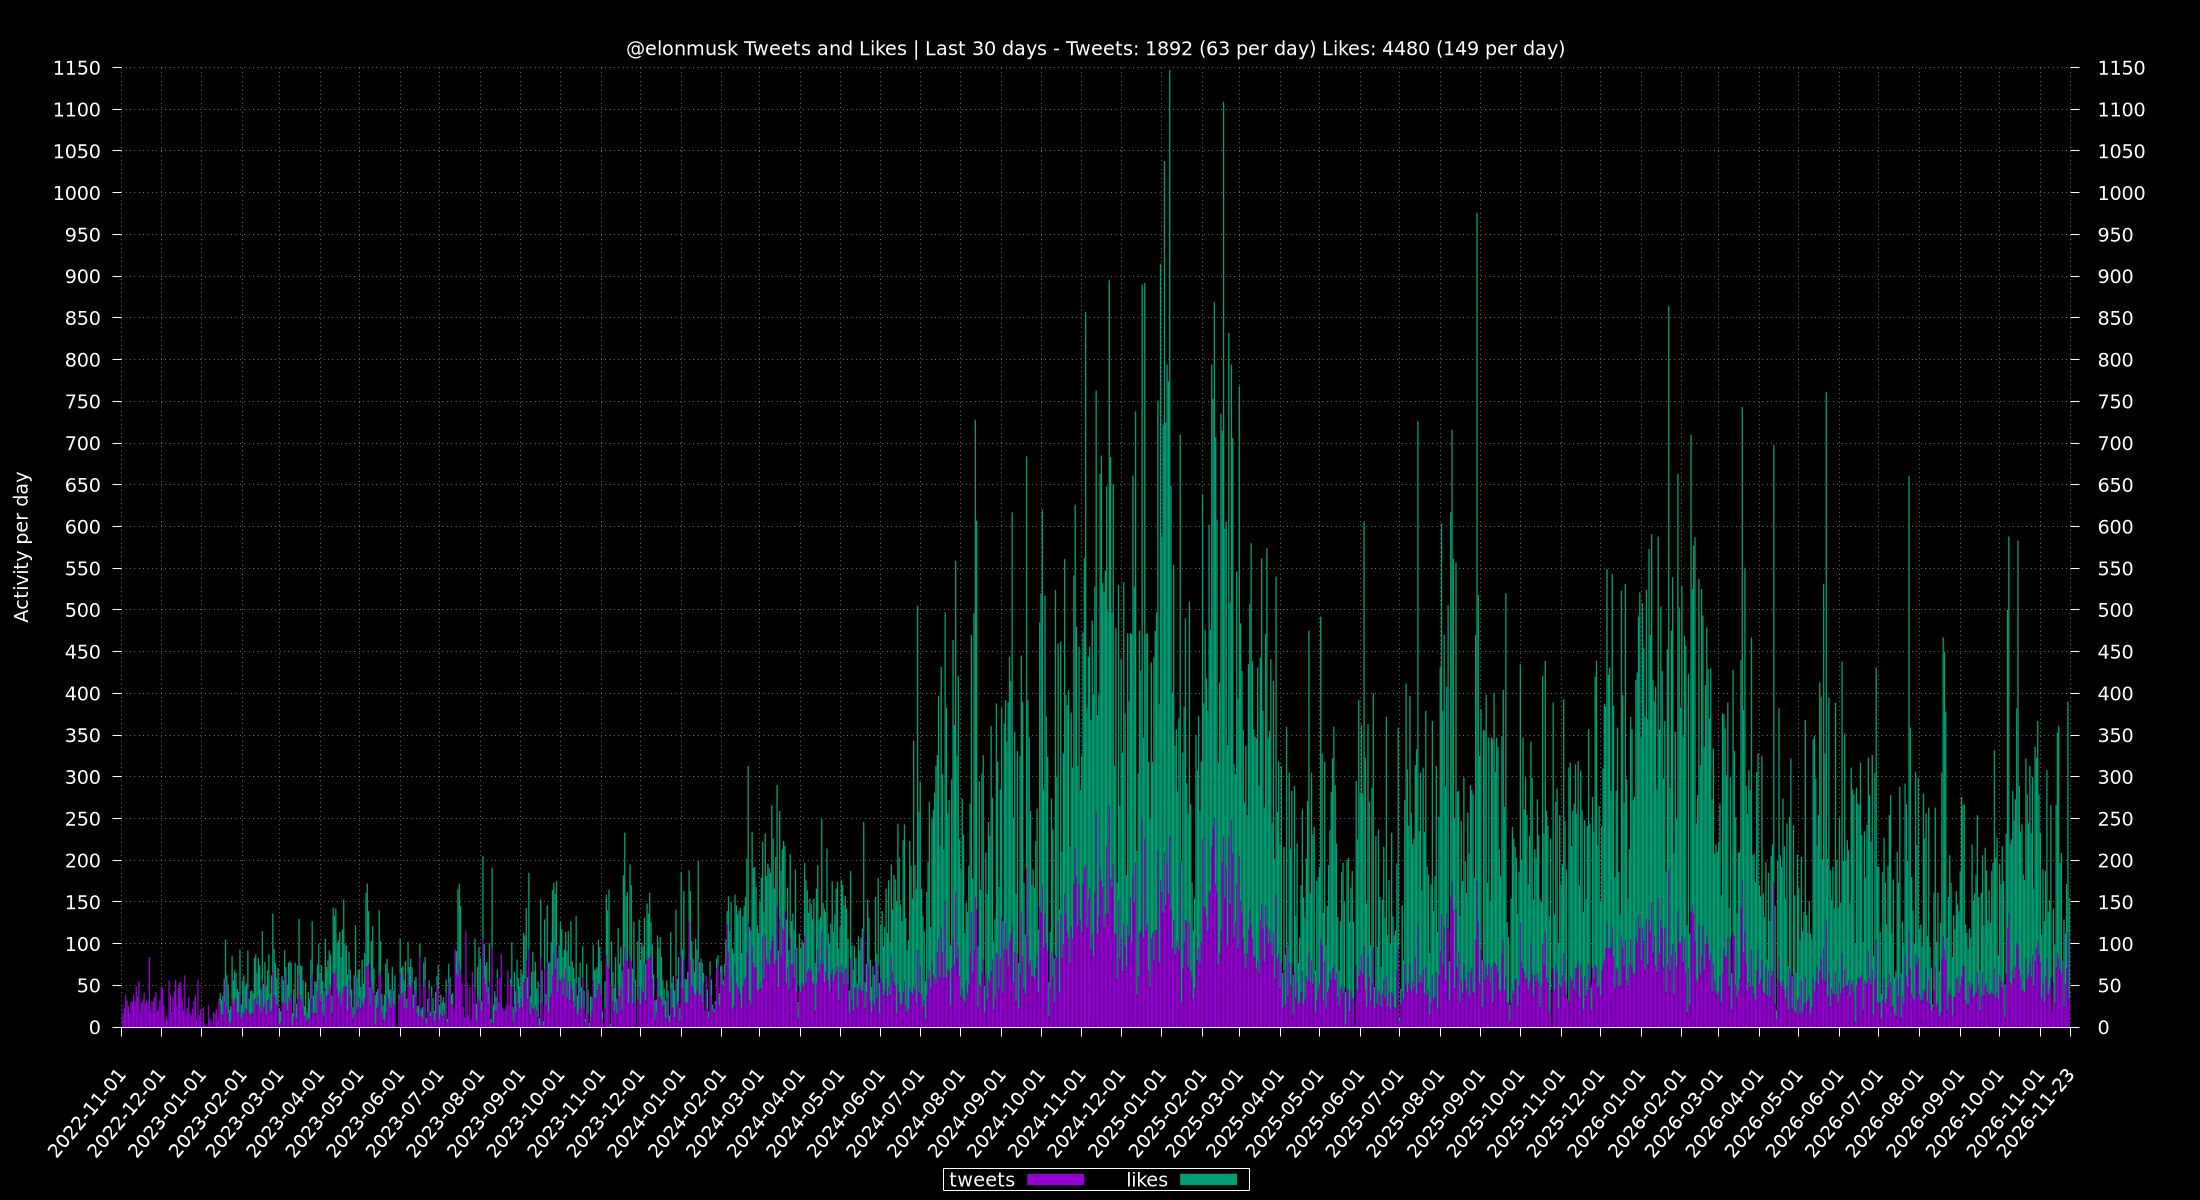
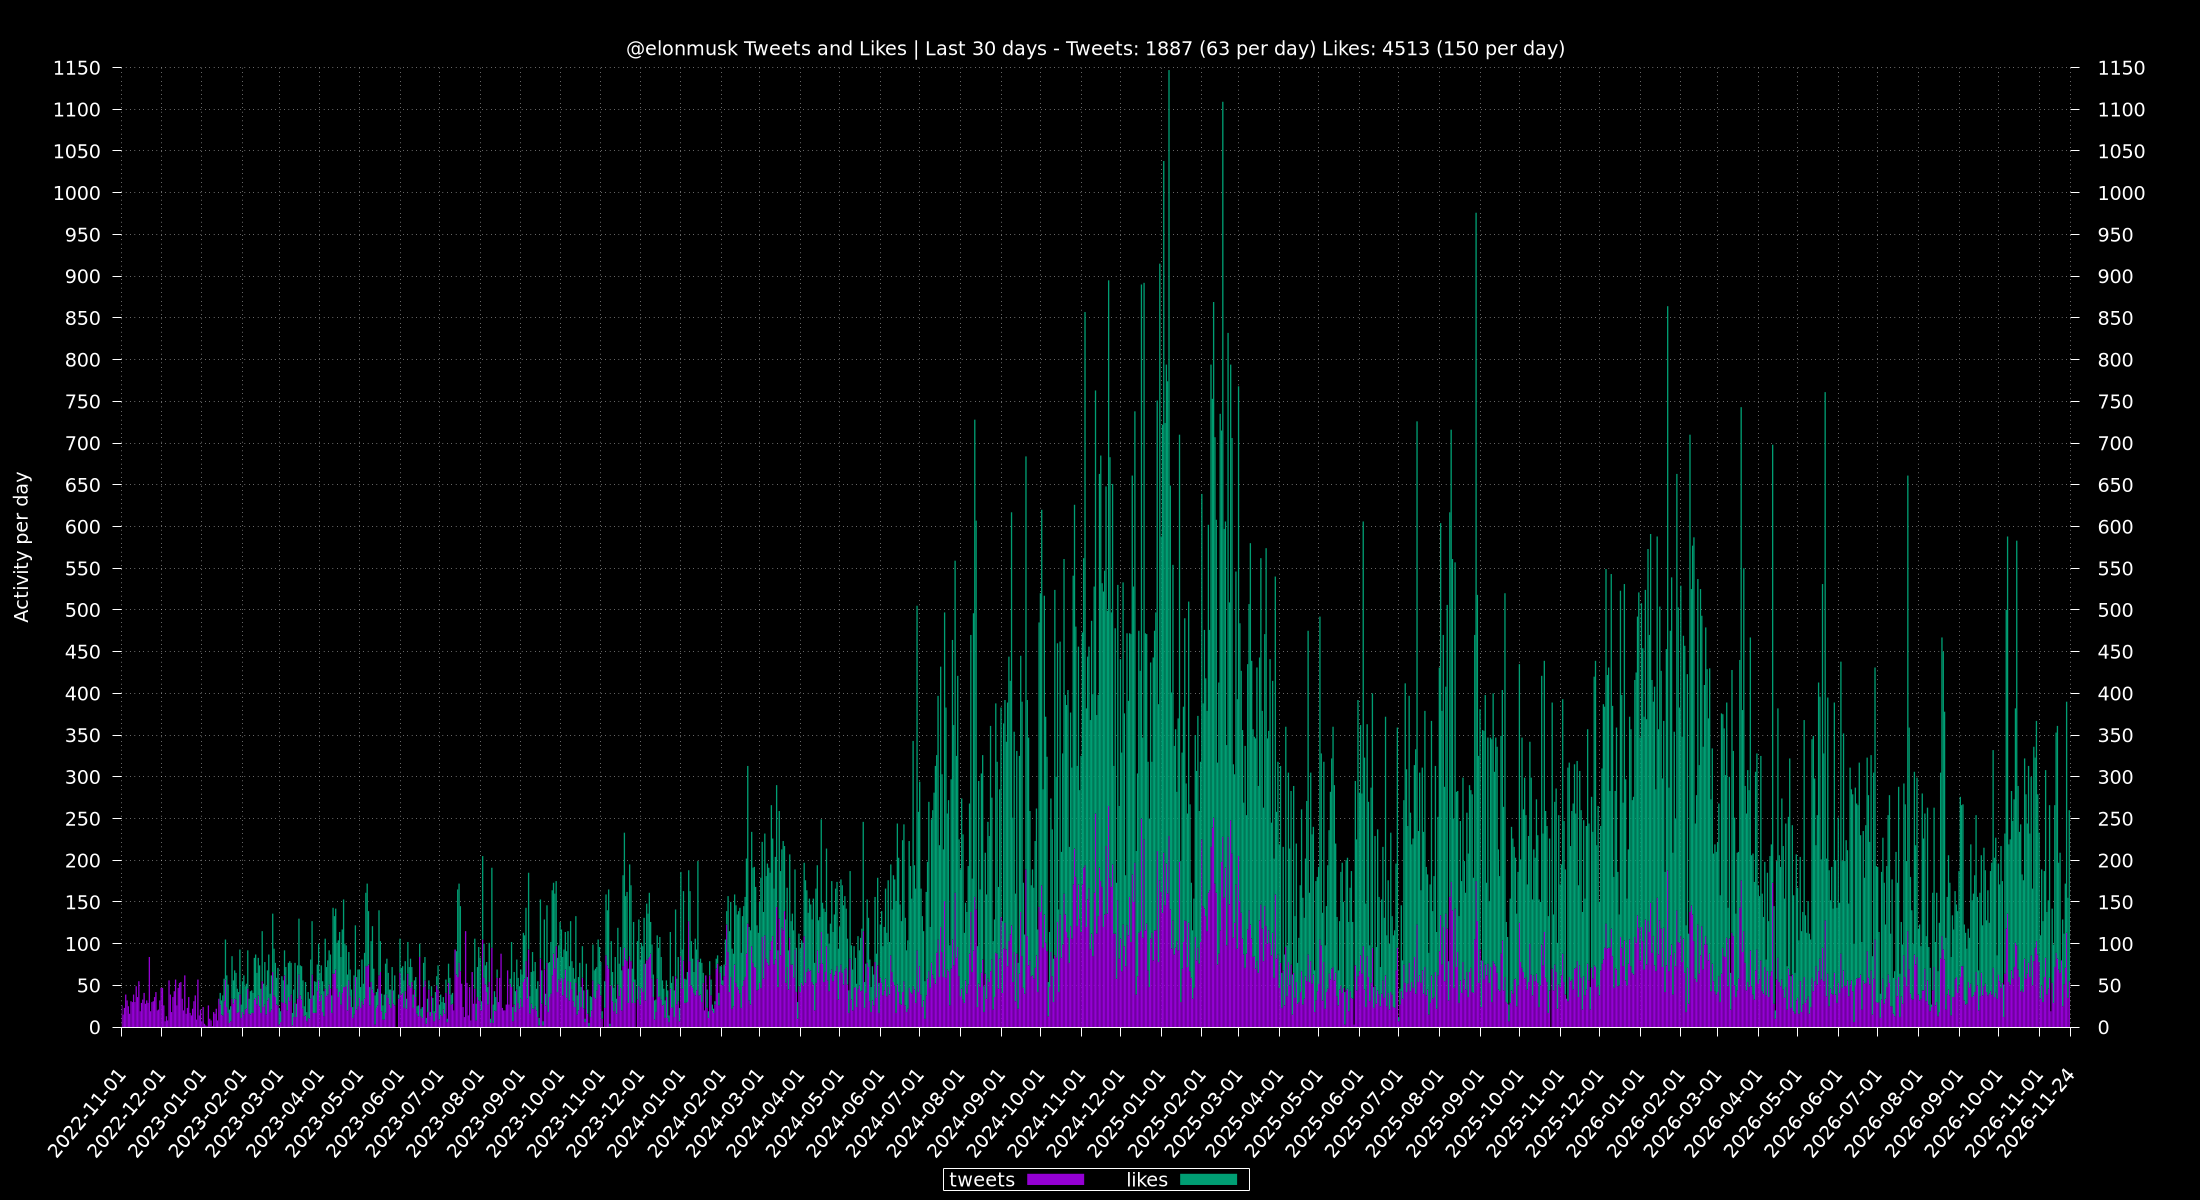
update via cron

Changed region(s): [[0.1545, 0.1233, 0.9582, 0.8633], [0.1855, 0.8942, 0.9273, 0.9558], [0.6182, 0.0308, 0.6491, 0.0617]]

diff --git a/totals/README.md b/totals/README.md
@@ -1,6 +1,6 @@
 ## Last 30 Days
-Tweets: 1969 (64 per day)\
-Likes: 4716 (152 per day)
+Tweets: 1947 (63 per day)\
+Likes: 4685 (151 per day)
 
 ## 24 Hours
 Max: [**341**](../misc/most-tweets_24-hr.csv) - From `2024-11-23 14:29:53 CST` To `2024-11-24 14:28:44 CST`
